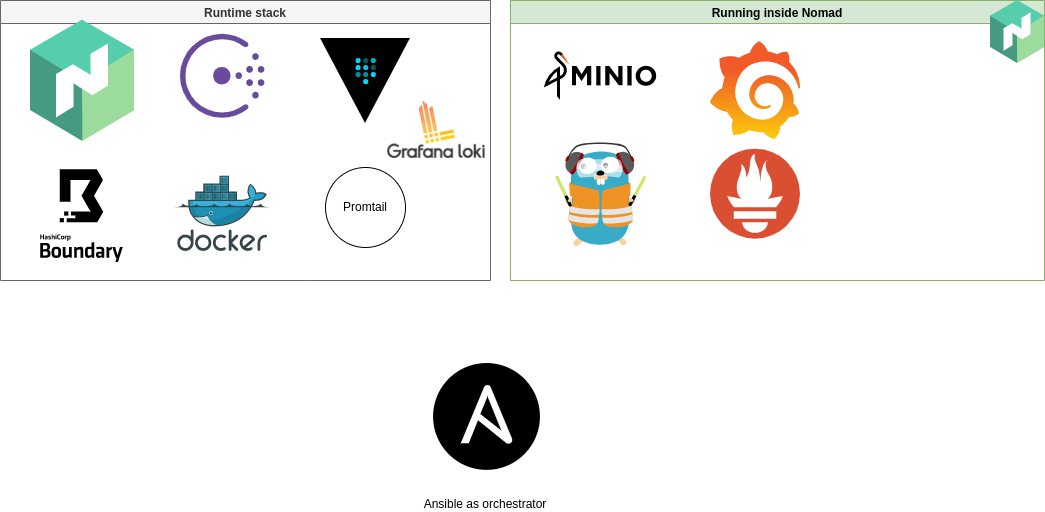
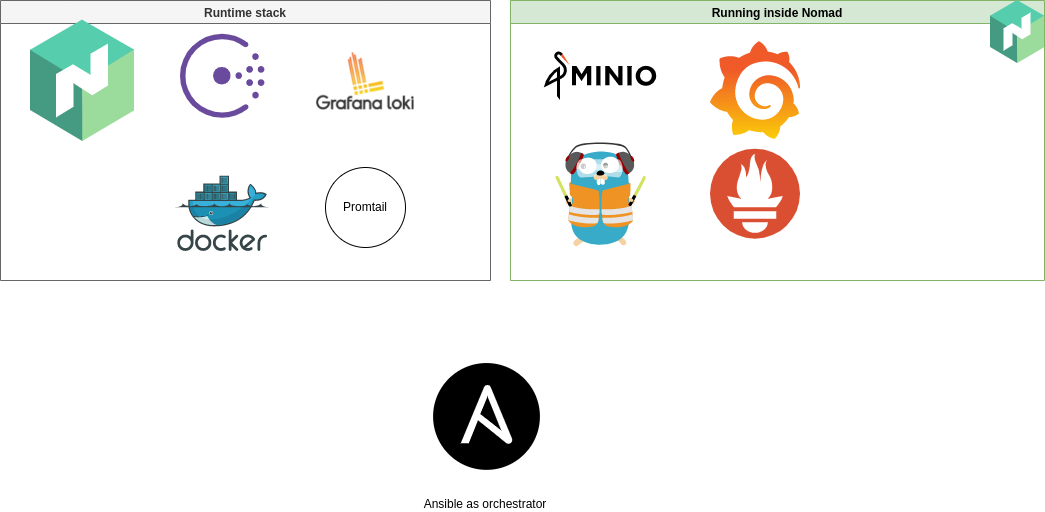
new image for high level architecture

Changed region(s): [[0.3062, 0.0625, 0.4593, 0.3125], [0.0306, 0.3125, 0.1225, 0.4375], [0.0306, 0.4375, 0.1225, 0.5]]

diff --git a/README.md b/README.md
@@ -16,7 +16,6 @@ The initial phase of this project will be focussed on Azure deployment.
 
 - [Hashi in a box](#hashi-in-a-box)
 - [Table of contents](#table-of-contents)
-- [Prerequisites](#prerequisites)
 - [Architecture](#architecture)
 - [Native component list](#native-component-list)
 - [Containerized component list](#containerized-component-list)
@@ -44,6 +43,8 @@ When deploying we need minimum 4 vm's (3 admin, 1 worker).
 The applicative high level overview is following:
 
 ![](./img/hashi-in-a-box-high-level.png)
+
+In the setup the runtime stack runs natively on the Linux system, they provide the base for the nomad runtime and observability around it.
 
 
 # Native component list
